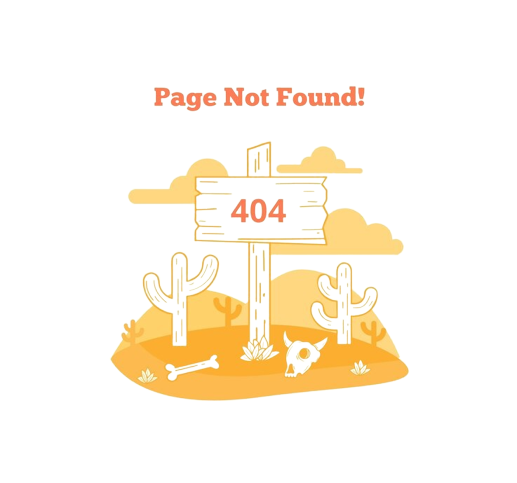
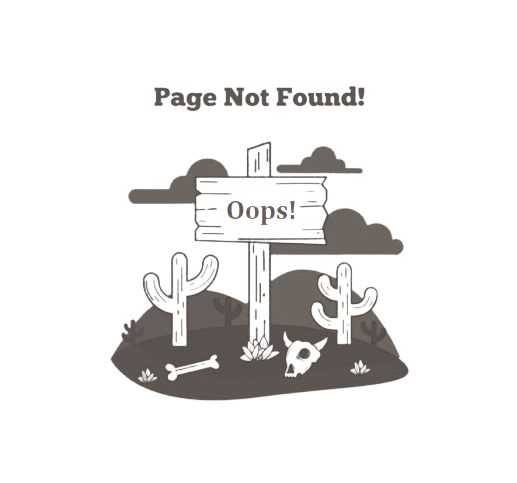
refactored Error component and fixed errors in multiple containers. Fixed styles for errors and asociate containers

Changed region(s): [[0.2166, 0.2795, 0.8046, 0.8385], [0.2785, 0.1553, 0.7118, 0.2484]]

diff --git a/src/containers/CartView/index.jsx b/src/containers/CartView/index.jsx
@@ -22,20 +22,15 @@ const CartView = () => {
 
   const retrieveCartDetails = async () => {
     setLoading(true);
-    const selectedCart = await getUserCart(cartId);
 
-    console.log(selectedCart);
-    console.log(cartId);
-    console.log(!cartId || !selectedCart);
-
-    if (selectedCart.status !== 200) {
-      setError(true);
-    } else {
-      console.log('aaaaaaaaa');
-      console.log(selectedCart.data[0]);
+    try {
+      const selectedCart = await getUserCart(cartId);
       setRetrievedCart(selectedCart.data[0]);
+    } catch {
+      setError(true);
+    } finally {
+      setLoading(false);
     }
-    setLoading(false);
   };
 
   useEffect(() => {
@@ -79,29 +74,27 @@ const CartView = () => {
           </div>
         );
       }
-      return (
-        <Error title="No data found" image={noData} text="Error" />
-      );
+      return <Error image={noData} />;
     }
     return (
       <div className="loader">
-      <ColorRing
-        visible
-        height="80"
-        width="80"
-        ariaLabel="blocks-loading"
-        wrapperStyle={{}}
-        wrapperClass="blocks-wrapper"
-        colors={[
-          '#fafafa',
-          '#e8e6e6',
-          '#d4d2cf',
-          '#b5b1aa',
-          '#918c83',
-          '#69635b',
-          '#403c35',
-        ]}
-      />
+        <ColorRing
+          visible
+          height="80"
+          width="80"
+          ariaLabel="blocks-loading"
+          wrapperStyle={{}}
+          wrapperClass="blocks-wrapper"
+          colors={[
+            '#fafafa',
+            '#e8e6e6',
+            '#d4d2cf',
+            '#b5b1aa',
+            '#918c83',
+            '#69635b',
+            '#403c35',
+          ]}
+        />
       </div>
     );
   };

diff --git a/src/containers/SendGift/index.jsx b/src/containers/SendGift/index.jsx
@@ -17,15 +17,14 @@ const SendGift = () => {
 
   const getAllUsers = async () => {
     setLoading(true);
-    const users = await getUsers();
-    const modifiedUsers = removeLoggedUserFromList(users.data);
-
-    if (!modifiedUsers) {
+    try {
+      const users = await getUsers();
+      const modifiedUsers = removeLoggedUserFromList(users.data);
+    } catch {
       setError(true);
-    } else {
-      setUserList(modifiedUsers);
+    } finally {
+      setLoading(false);
     }
-    setLoading(false);
   };
 
   const removeLoggedUserFromList = (users = []) => {
@@ -53,29 +52,27 @@ const SendGift = () => {
           </div>
         );
       }
-      return (
-        <Error title="No data found" image={noData} text="Error" />
-      );
+      return <Error image={noData} />;
     }
     return (
       <div className="loader">
-      <ColorRing
-        visible
-        height="80"
-        width="80"
-        ariaLabel="blocks-loading"
-        wrapperStyle={{}}
-        wrapperClass="blocks-wrapper"
-        colors={[
-          '#fafafa',
-          '#e8e6e6',
-          '#d4d2cf',
-          '#b5b1aa',
-          '#918c83',
-          '#69635b',
-          '#403c35',
-        ]}
-      />
+        <ColorRing
+          visible
+          height="80"
+          width="80"
+          ariaLabel="blocks-loading"
+          wrapperStyle={{}}
+          wrapperClass="blocks-wrapper"
+          colors={[
+            '#fafafa',
+            '#e8e6e6',
+            '#d4d2cf',
+            '#b5b1aa',
+            '#918c83',
+            '#69635b',
+            '#403c35',
+          ]}
+        />
       </div>
     );
   };

diff --git a/src/containers/Home/index.jsx b/src/containers/Home/index.jsx
@@ -36,17 +36,18 @@ const Home = () => {
   const getProductByCategory = async () => {
     setLoading(true);
     let products = [];
-
-    if (!category || category === 'All') {
-      products = await getProducts();
-    } else {
-      products = await getCategoryProducts(category);
-    }
-    console.log(products);
-    if (products.status !== 200 || products.data.length === 0) {
+    try {
+      if (!category || category === 'All') {
+        products = await getProducts();
+      } else {
+        products = await getCategoryProducts(category);
+      }
+      setProductList(products.data);
+    } catch {
       setError(true);
-    } else setProductList(products.data);
-    setLoading(false);
+    } finally {
+      setLoading(false);
+    }
   };
 
   useEffect(() => {
@@ -58,9 +59,7 @@ const Home = () => {
       if (!error) {
         return <ProductList products={productList} />;
       }
-      return (
-        <Error title="No data found" image={noData} text="Error" />
-      );
+      return <Error image={noData} className="error" />;
     }
     return (
       <ColorRing

diff --git a/src/containers/ProductView/index.jsx b/src/containers/ProductView/index.jsx
@@ -16,16 +16,15 @@ const ProductView = () => {
 
   const retrieveProductDetails = async () => {
     setLoading(true);
-    const selectedProduct = await getProductDetails(id);
 
-    console.log(selectedProduct);
-
-    if (!id || !selectedProduct) {
-      setError(true);
-    } else {
+    try {
+      const selectedProduct = await getProductDetails(id);
       setRetrievedProduct(selectedProduct.data);
+    } catch {
+      setError(true);
+    } finally {
+      setLoading(false);
     }
-    setLoading(false);
   };
 
   useEffect(() => {
@@ -63,9 +62,7 @@ const ProductView = () => {
           </div>
         );
       }
-      return (
-        <Error title="No data found" image={noData} text="Error" />
-      );
+      return <Error image={noData} className="product-view__error" />;
     }
     return (
       <div className="loader">

diff --git a/src/containers/ProductView/styles.scss b/src/containers/ProductView/styles.scss
@@ -15,6 +15,11 @@
     border-radius: 5px;
     align-items: flex-start;
 
+    @media (max-width: 660px) {
+        width: 100%;
+
+    }
+
     }
 
     &__text{
@@ -37,6 +42,12 @@
         border-radius: 5px;
         padding: 10px;
     }
+
+    &__error{
+    display: flex;
+    justify-content: center;
+    align-content: center;
+}
 }
 
 .loader{
@@ -44,5 +55,6 @@
     justify-content: center;
     align-content: center;
 }
+
 
 

diff --git a/src/components/Error/index.jsx b/src/components/Error/index.jsx
@@ -1,10 +1,11 @@
 import React from 'react';
 import PropTypes from 'prop-types';
+import './styles.scss';
 
 const Error = ({ title, image, text, className }) => (
   <div className={className}>
     <h2>{title}</h2>
-    <img src={image} alt={text}></img>
+    <img src={image} alt={text} className="error__image"></img>
     <p>{text}</p>
   </div>
 );

diff --git a/src/api/products.js b/src/api/products.js
@@ -4,6 +4,9 @@ const getProducts = () => instance.get('/products');
 
 const getProductDetails = (id) => instance.get(`products/${id}`);
 
+//For trying error funtioning
+//const getProductDetails = () => instance.get(`products/200`);
+
 const getCategories = () => instance.get(`products/categories`);
 
 const getCategoryProducts = (catName) =>

diff --git a/src/containers/NotFound/index.jsx b/src/containers/NotFound/index.jsx
@@ -1,8 +1,11 @@
 import React from 'react';
+import Error from 'Components/Error';
+import Error404 from '../../assets/Error404.png';
+import './styles.scss';
 
 const NotFound = () => (
-  <div>
-    <p>404 Not Found</p>
+  <div className="Error404">
+    <Error image={Error404} className="E" />
   </div>
 );
 

diff --git a/src/containers/NotFound/styles.scss b/src/containers/NotFound/styles.scss
@@ -1,0 +1,10 @@
+.Error404{
+    display: flex;
+    justify-content: center;
+    align-content: center;
+
+    @media (max-width: 660px) {
+        height: 100%;
+
+    }
+}

diff --git a/src/containers/Home/index.scss b/src/containers/Home/index.scss
@@ -15,3 +15,10 @@
     margin: 0;
   }
 }
+.error{
+  margin-left: 80px;
+
+  @media (max-width: 660px) {
+     margin-left: 60px;
+  }
+}

diff --git a/src/components/Error/styles.scss b/src/components/Error/styles.scss
@@ -1,0 +1,5 @@
+.error{
+    &__image{
+        height: 75vw;
+    }
+}
